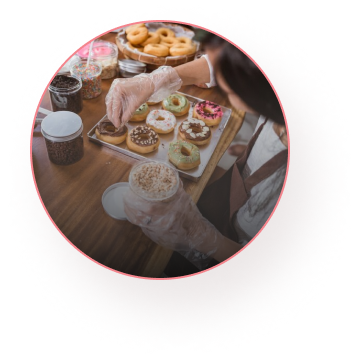
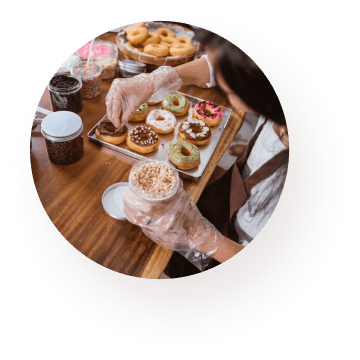
intermediate commit

diff --git a/src/partials/program.html b/src/partials/program.html
@@ -1,4 +1,4 @@
-<section class="program">
+<section class="program container">
   <h2 class="program__title">Program</h2>
 
   <p class="program__text">
@@ -25,31 +25,184 @@
     </p>
   </div>
 
-  <div>
-    <div>Тут має бути картинка</div>
-    <div>
+
+
+
+
+
+
+<div class="program__thumb" >
+  <img class="program__pic" src="./images/program_img/mobile_1.png" alt="Тут має бути картинка"/>
+</div>
+
+
+
+  
+
+  <!-- <div class="program_pic_item">
+
+  <img class="program__pic"src="./images/program_img/mobile_1.png" alt="Тут має бути картинка"/>
+
+  <div class="program__pic__text">
+    <p>Type of the event</p>
+    <span>Cooking classes</span>
+  </div>
+  
+  </div>
+
+
+
+  <div class="program_pic_item">
+
+    <img width="130" height="130" src="./images/program_img/mobile_1.png" alt="Тут має бути картинка"/>
+  
+    <div class="program__pic__text">
       <p>Type of the event</p>
       <span>Cooking classes</span>
     </div>
+    
+    </div>
 
-    <div>і тут має бути картинка</div>
-    <div>
+
+
+
+    <div class="program_pic_item">
+
+        <img width="130" height="130" src="./images/program_img/mobile_1.png" alt="Тут має бути картинка"/>
+      
+        <div class="program__pic__text">
+          <p>Type of the event</p>
+          <span>Cooking classes</span>
+        </div>
+        
+        </div>
+
+
+        <div class="program_pic_item">
+
+            <img width="130" height="130" src="./images/program_img/mobile_1.png" alt="Тут має бути картинка"/>
+          
+            <div class="program__pic__text">
+              <p>Type of the event</p>
+              <span>Cooking classes</span>
+            </div>
+            
+            </div> -->
+
+
+
+
+  <!-- <div class="program__pic__wrap">
+
+    <div class="program__pic">
+    <picture>
+      <source
+        srcset="
+          ./images/program_img/mobile_1.png    1x,
+          ./images/program_img/mobile_1@2x.png 2x
+        "
+        media="(min-width:320px)"
+        type="image/png"
+      />
+    </picture>
+    <img
+      width="130" height="130"
+      src="./images/program_img/mobile_1.png"
+      alt="Тут має бути картинка"
+    />
+    <div class="program__pic__text">
+      <p>Type of the event</p>
+      <span>Cooking classes</span>
+    </div>
+    </div>
+
+
+
+
+
+
+    <picture>
+      <source
+        srcset="
+          ./images/program_img/mobile_3.png    1x,
+          ./images/program_img/mobile_3@2x.png 2x
+        "
+        media="(min-width:320px)"
+        type="image/png"
+      />
+    </picture>
+    <img
+      width="130"
+      src="./images/program_img/mobile_3.png"
+      alt="Тут має бути картинка"
+    />
+    <div class="program__pic__text">
       <p>Type of the even</p>
       <span>18:30 (2.5 hours)</span>
     </div>
   </div>
 
-  <div>
-    <div>тут також має бути картинка</div>
+
+
+
+
+
+
+
+
+
+  <div class="program__pic__wrap">
+    <picture>
+      <source
+        srcset="
+          ./images/program_img/mobile_2.png    1x,
+          ./images/program_img/mobile_2@2x.png 2x
+        "
+        media="(min-width:320px)"
+        type="image/png"
+      />
+    </picture>
+    <img
+      width="130"
+      src="./images/program_img/mobile_2.png"
+      alt="Тут має бути картинка"
+    />
     <div>
       <p>Number of guests</p>
       <span>1 to 20</span>
     </div>
 
-    <div>і ще одна картинка тут)</div>
+
+
+
+
+
+
+
+    <picture>
+      <source
+        srcset="
+          ./images/program_img/mobile_4.png    1x,
+          ./images/program_img/mobile_4@2x.png 2x
+        "
+        media="(min-width:320px)"
+        type="image/png"
+      />
+    </picture>
+    <img
+      width="130"
+      src="./images/program_img/mobile_4.png"
+      alt="Тут має бути картинка"
+    />
     <div>
       <p>The host speaks</p>
       <span>English, French</span>
     </div>
-  </div>
+  </div> -->
+
+
+
+
+
+
 </section>

diff --git a/src/sass/layout/_program.scss b/src/sass/layout/_program.scss
@@ -1,5 +1,6 @@
 .program {
   padding-top: 28px;
+  padding-bottom: 36px;
 
   &__title {
     font-weight: 500;
@@ -8,7 +9,6 @@
     text-align: center;
     color: $brown-clr;
     margin-bottom: 8px;
-    text-align: center;
   }
 
   &__text {
@@ -43,4 +43,43 @@
   &__read__more__text {
     display: none;
   }
+
+  &__thumb{
+    outline: 1px solid blue;
+    // width: 130px;
+    // height: 130px;
+    border-radius: 50%;
+  }
+
+&__pic{
+    width: 100%;
+    height: 100%;
+    object-fit: cover;
+    outline: 1px solid tomato;
 }
+
+
+// &_pic_item{
+//     position: relative;
+// }
+
+// &__pic{
+//     object-fit: cover;
+//     border-radius: 50%;
+//     background: linear-gradient(359.99deg, #000000 -9.2%, rgba(156, 156, 156, 0) 97.68%);
+//     border: 1px solid #F3848C;
+
+// }
+
+// &__pic__text{
+//     position: absolute;
+//     left: 0;
+//     bottom: 0;
+
+// }
+
+
+}
+
+
+

diff --git a/src/sass/index.css b/src/sass/index.css
@@ -53,6 +53,7 @@ img {
 
 .program {
   padding-top: 28px;
+  padding-bottom: 36px;
 }
 .program__title {
   font-weight: 500;
@@ -61,7 +62,6 @@ img {
   text-align: center;
   color: #3c322d;
   margin-bottom: 8px;
-  text-align: center;
 }
 .program__text {
   font-weight: 400;
@@ -90,4 +90,15 @@ img {
 }
 .program__read__more__text {
   display: none;
+}
+.program__thumb {
+  outline: 1px solid blue;
+  border-radius: 50%;
+}
+.program__pic {
+  width: 100%;
+  height: 100%;
+  -o-object-fit: cover;
+     object-fit: cover;
+  outline: 1px solid tomato;
 }/*# sourceMappingURL=index.css.map */
